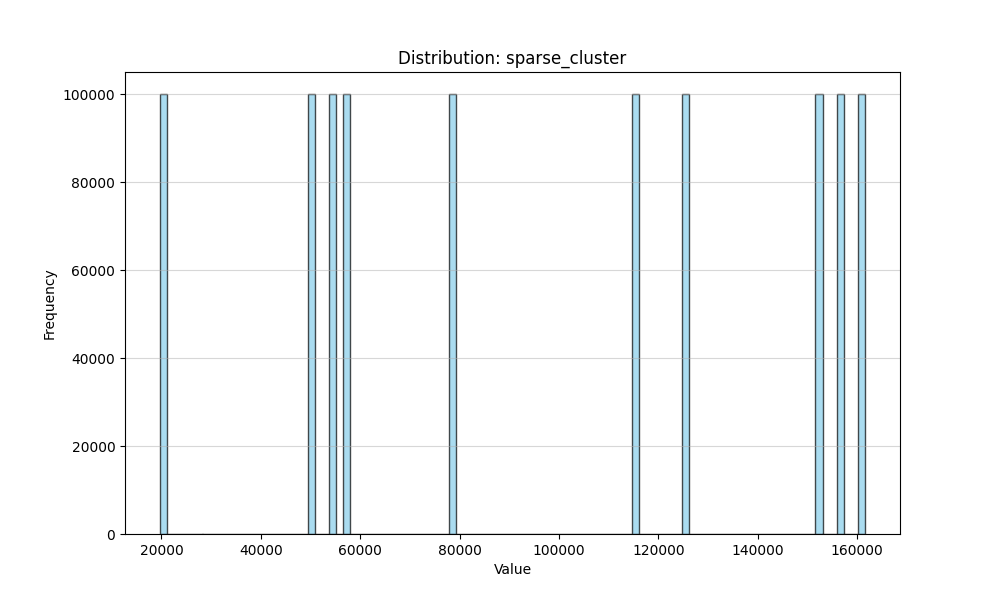
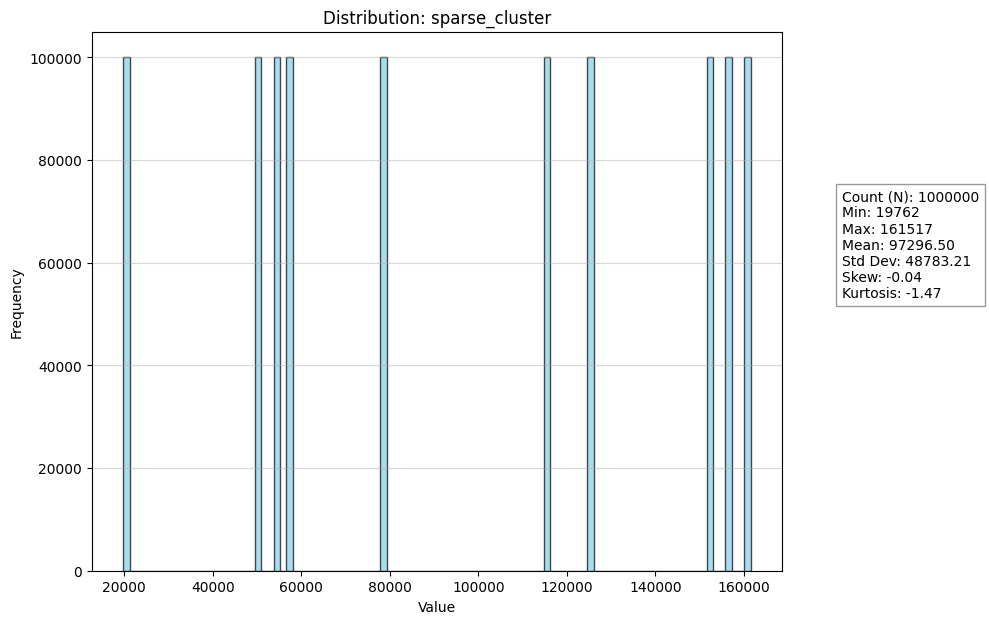
1

diff --git a/plot_datasets.py b/plot_datasets.py
@@ -21,15 +21,36 @@ def plot_distributions():
             # Read first 100k rows for plotting speed if large, or full
             df = pd.read_csv(ds_path, header=None, names=['v'])
             
-            plt.figure(figsize=(10, 6))
+            # Calculate statistics
+            stats_text = (
+                f"Count (N): {len(df)}\n"
+                f"Min: {df['v'].min()}\n"
+                f"Max: {df['v'].max()}\n"
+                f"Mean: {df['v'].mean():.2f}\n"
+                f"Std Dev: {df['v'].std():.2f}\n"
+                f"Skew: {df['v'].skew():.2f}\n"
+                f"Kurtosis: {df['v'].kurt():.2f}"
+            )
+
+            plt.figure(figsize=(12, 7))
+            
+            # Plot Histogram
             plt.hist(df['v'], bins=100, color='skyblue', edgecolor='black', alpha=0.7)
+            
             plt.title(f"Distribution: {dist}")
             plt.xlabel("Value")
             plt.ylabel("Frequency")
             plt.grid(axis='y', alpha=0.5)
             
+            # Add text box with statistics
+            plt.gcf().text(0.75, 0.5, stats_text, fontsize=10, 
+                           bbox=dict(facecolor='white', alpha=0.8, edgecolor='gray'))
+            
+            # Adjust layout to make room for text if needed (though .text with gcf coordinates overlays)
+            plt.subplots_adjust(right=0.7) # Make room on the right for the stats box if we used axes coordinates, but here checking visuals
+            
             out_path = plot_dir / f"dist_{dist}.png"
-            plt.savefig(out_path)
+            plt.savefig(out_path, bbox_inches='tight') # bbox_inches=tight helps save the extra text
             plt.close()
             print(f"Saved plot to {out_path}")
             
